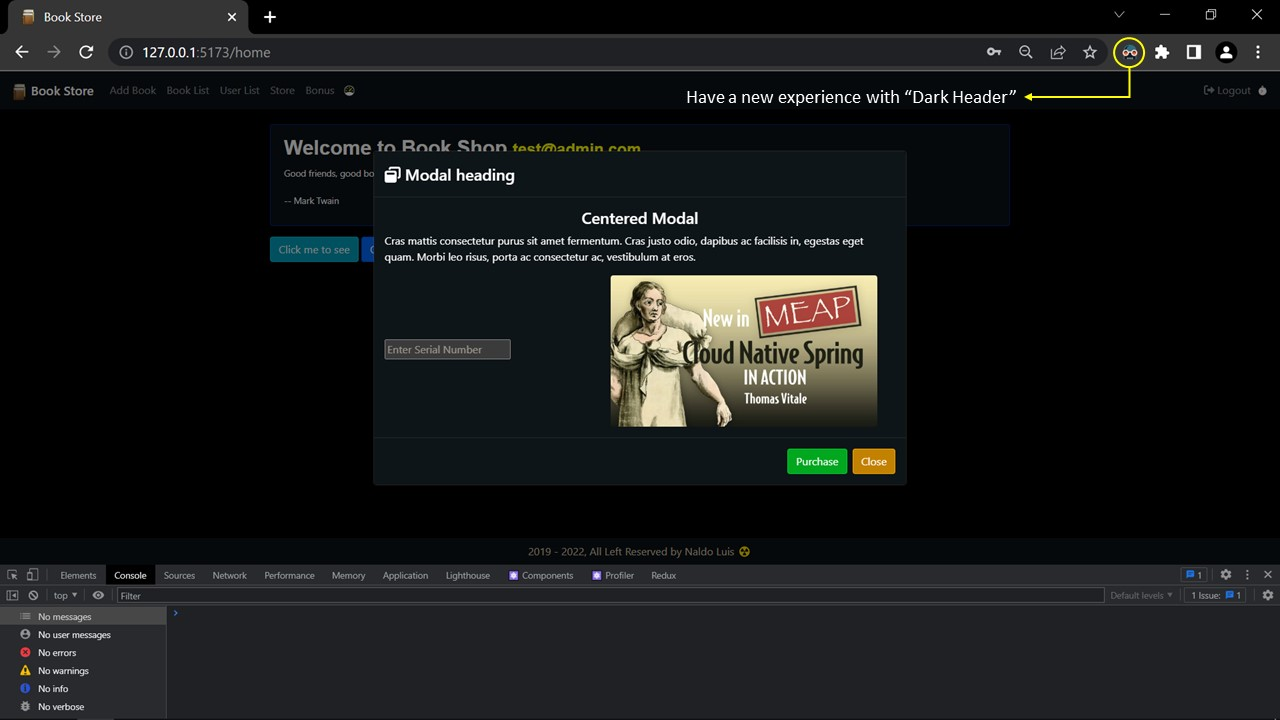
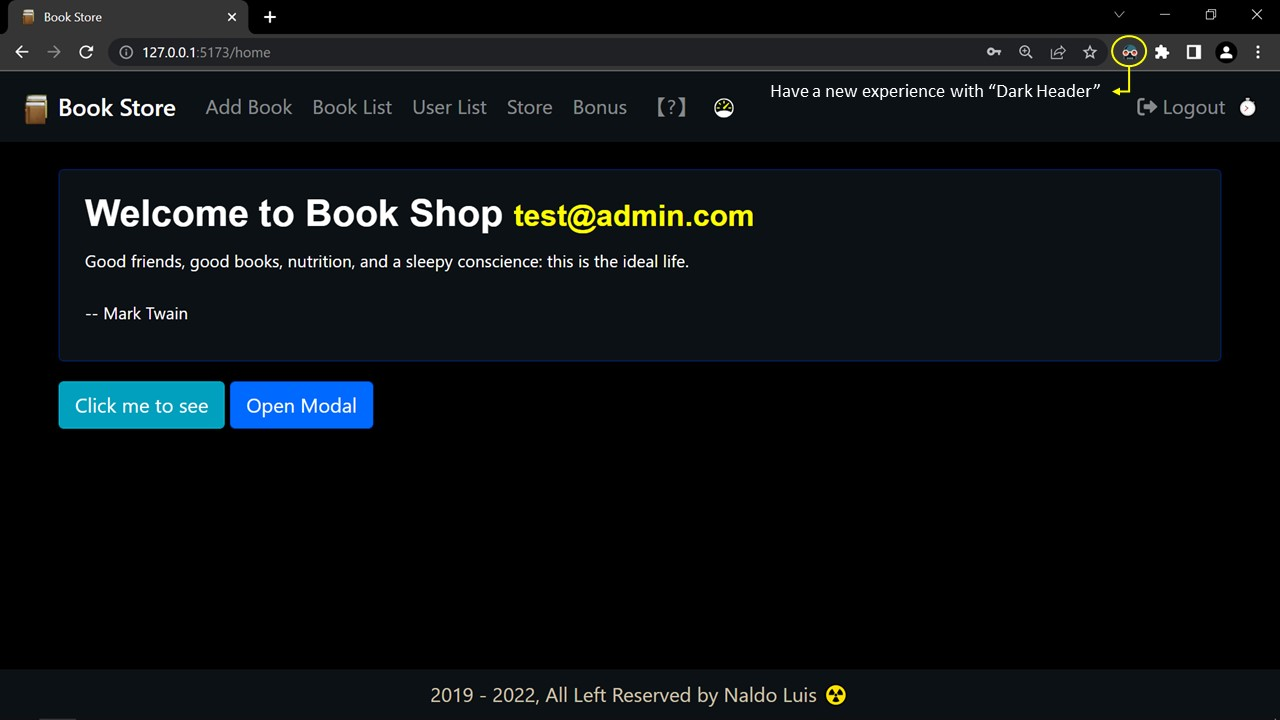
funcoes e recursos para projetos futuro

diff --git a/frontend/src/components/Home.jsx b/frontend/src/components/Home.jsx
@@ -25,7 +25,7 @@ export default function Home() {
   )
 
   const Popovers = () => (
-    <OverlayTrigger trigger="click" placement="right" overlay={popover}>
+    <OverlayTrigger trigger="click" placement="top" overlay={popover}>
       <Button variant="info">Click me to see</Button>
     </OverlayTrigger>
   )
@@ -41,8 +41,6 @@ export default function Home() {
     <Button variant="primary"
       onClick={() => setModalShow(true)}>Open Modal
     </Button>
-     <ModalCustom
-       show={modalShow}
-       onHide={() => setModalShow(false)}/>
+     <ModalCustom show={modalShow} onHide={() => setModalShow(false)}/>
    </>
  )}
